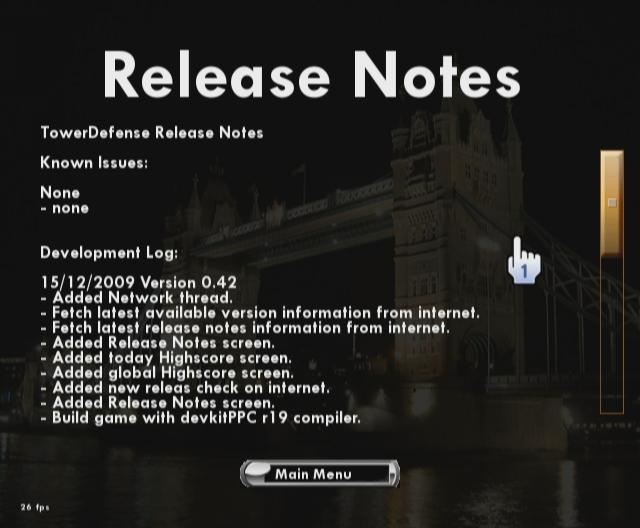
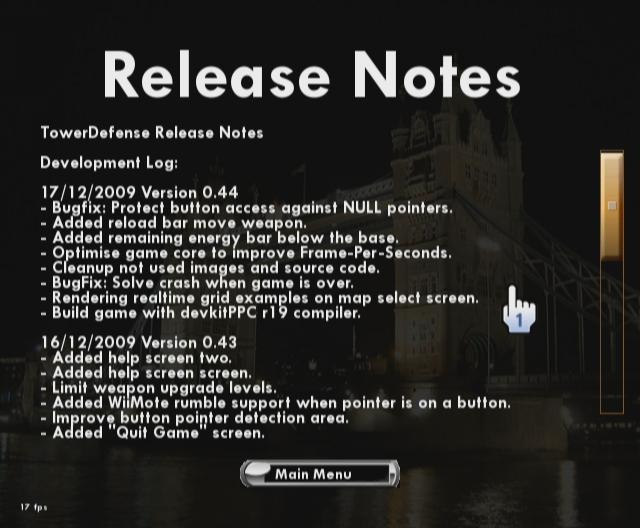
Add some latest minutes changes. The build is stable. So tomorrow Beta tester will receive first Release.

diff --git a/source/main.cpp b/source/main.cpp
@@ -24,13 +24,13 @@
 **  - Realtime monsters animation on map select page.
 **  - Add map 4, 5, 6 and maybe more!
 **  - Improve weapon graphics
+**  - Improve fire effect!
 **  - Snap weapon to grid!
 **  - Add rotating sound icon on sound setting screen.
 **  - Bugfix: Network thread (Google analistics call crash)
-** 
-**  TODO:
 **  - Bugfix: Balance sound effect volume.
 **  - Improve scroll bar button design.
+**  - Show when weapon upgrade is not possible anymore!
 **
 **  17/12/2009 Version 0.44
 **  - Bugfix: Protect button access against NULL pointers.
@@ -39,7 +39,7 @@
 **  - Optimise game core to improve Frame-Per-Seconds.
 **  - Cleanup not used images and source code.
 **  - BugFix: Solve crash when game is over.
-**  - Rendering realtime grid examples in map select page.
+**  - Rendering realtime grid examples on map select screen.
 **
 **  16/12/2009 Version 0.43
 **  - Added help screen two. 
